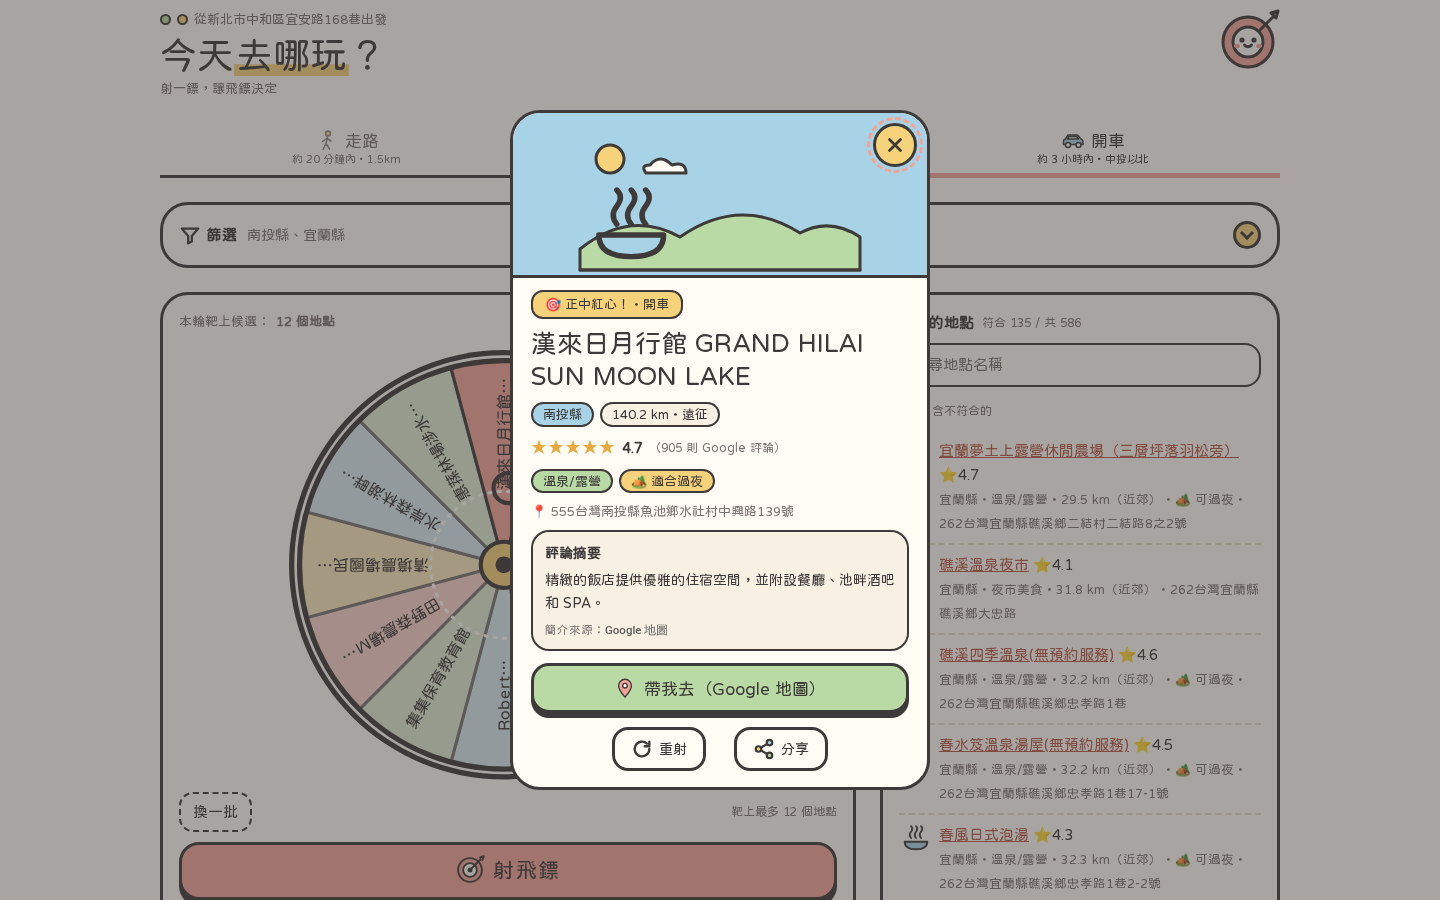
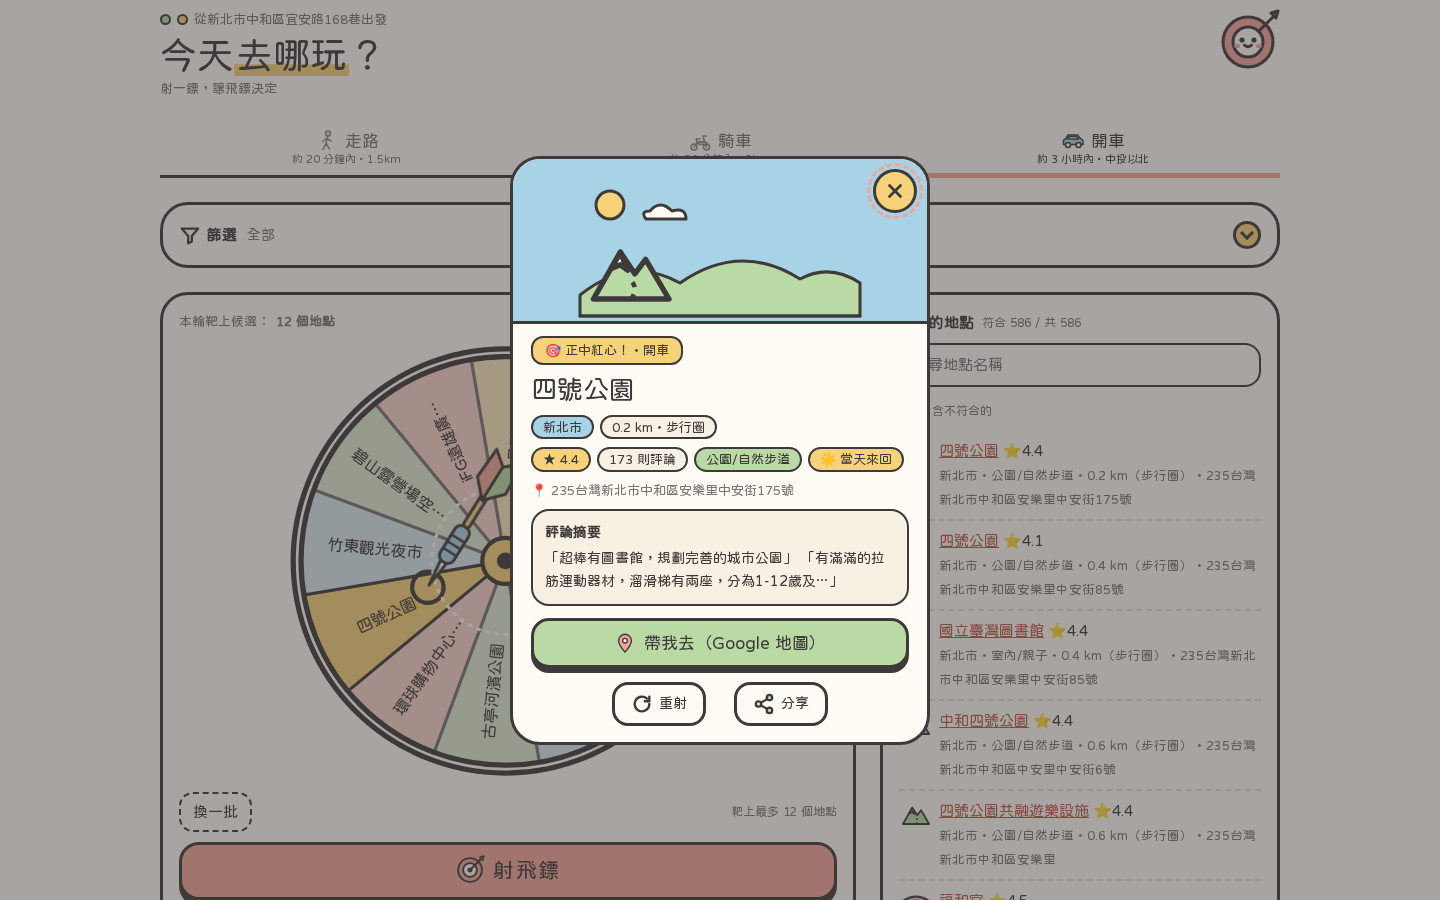
彈窗：評分/評論數改為標籤、評論摘要縮短、移除來源列

diff --git a/index.html b/index.html
@@ -126,6 +126,8 @@ h1 em{background:none;border:0;border-radius:0;padding:0 2px;transform:none;box-
 .ibtn.lab{border-radius:16px;grid-auto-flow:column;gap:6px;padding:0 16px;font-size:14px}
 #toast{position:fixed;left:50%;bottom:24px;transform:translate(-50%,20px);background:var(--ink);color:var(--paper);border-radius:14px;padding:8px 16px;font-size:14px;opacity:0;pointer-events:none;transition:.25s;z-index:20}
 #toast.on{opacity:1;transform:translate(-50%,0)}
+.tag-r{background:var(--yellow)}
+#mRv p{display:-webkit-box;-webkit-line-clamp:3;-webkit-box-orient:vertical;overflow:hidden;white-space:normal}
 </style></head><body>
 <div id="app">
 <header><div><span class="eyebrow"><i class="line-dot" style="background:#B9DAA5"></i><i class="line-dot" style="background:#F6D27A"></i>從新北市中和區宜安路168巷出發</span><h1>今天<em>去哪玩</em>？</h1><div class="sub">射一鏢，讓飛鏢決定</div></div>
@@ -168,7 +170,7 @@ h1 em{background:none;border:0;border-radius:0;padding:0 2px;transform:none;box-
  <div class="m-rate" id="mRate"></div>
  <div class="m-tags" id="mTags"></div>
  <div class="m-addr" id="mAddr"></div>
- <section class="m-rv" aria-labelledby="rvH"><h3 id="rvH">評論摘要</h3><div id="mRv"></div><div class="m-attr" id="mAttr"></div></section>
+ <section class="m-rv" aria-labelledby="rvH"><h3 id="rvH">評論摘要</h3><div id="mRv"></div></section>
  <a class="go" id="mGo" target="_blank" rel="noopener"><svg class="i" viewBox="0 0 48 48" aria-hidden="true"><path d="M24 44 C24 44 10 28 10 19 A14 14 0 0 1 38 19 C38 28 24 44 24 44 Z" fill="#F2A497" stroke="#3E3A39" stroke-width="3" stroke-linejoin="round"/><circle cx="24" cy="19" r="5" fill="#FFFCF6" stroke="#3E3A39" stroke-width="3"/></svg>帶我去（Google 地圖）</a>
  <div class="m-actions"><button type="button" class="ibtn lab" id="mOk" aria-label="重射"><svg viewBox="0 0 24 24" aria-hidden="true"><path d="M20 12a8 8 0 1 1-2.6-5.9M20 4v5h-5" fill="none" stroke="#3E3A39" stroke-width="2.6" stroke-linecap="round" stroke-linejoin="round"/></svg><span>重射</span></button><button type="button" class="ibtn lab" id="mShare" aria-label="分享"><svg viewBox="0 0 24 24" aria-hidden="true"><circle cx="18" cy="5" r="3" fill="#A8D3E6" stroke="#3E3A39" stroke-width="2.4"/><circle cx="6" cy="12" r="3" fill="#F6D27A" stroke="#3E3A39" stroke-width="2.4"/><circle cx="18" cy="19" r="3" fill="#B9DAA5" stroke="#3E3A39" stroke-width="2.4"/><path d="M8.6 10.6l6.8-4M8.6 13.4l6.8 4" stroke="#3E3A39" stroke-width="2.4"/></svg><span>分享</span></button></div>
 </div></div></div>
@@ -292,6 +294,7 @@ async function throwDart(){if(busy||!pool.length)return;busy=true;$("throw").dis
 $("throw").onclick=throwDart;$("bull").onclick=()=>{if(!busy)throwDart()};
 function resumeIdle(){D.style.opacity=0;B.freeze=false;B.spd=8;drawBoard()}
 const esc=t=>String(t??"").replace(/[&<>"']/g,c=>({"&":"&amp;","<":"&lt;",">":"&gt;",'"':"&quot;","'":"&#39;"})[c]);
+function shortSum(t){t=t.replace(/\s+/g," ").trim();const ss=t.match(/[^。！？!?]+[。！？!?]?/g)||[t];let o="";for(const x of ss){if(o&&(o+x).length>70)break;o+=x;if(o.length>=50)break}return o.length>72?o.slice(0,70)+"…":o}
 const stars=r=>{const f=Math.round(r);return "★".repeat(f)+"<i>"+"★".repeat(5-f)+"</i>"};
 let cur=null,lastFocus=null;
 function show(p){cur=p;$("mIll").innerHTML=bigScene(p);$("rIll").innerHTML=ic(ICON[placeIcon(p)],"");
@@ -299,15 +302,14 @@ function show(p){cur=p;$("mIll").innerHTML=bigScene(p);$("rIll").innerHTML=ic(IC
  $("rName").textContent=p.name;$("rHint").textContent=p.addr+(p.reviews?`（${p.reviews} 則評論）`:"");$("rChips").innerHTML=chips;
  $("mLabel").innerHTML="🎯 正中紅心！・"+MODES[S.mode].label.replace(/<svg.*<\/svg>/,"");$("mName").textContent=p.name;
  $("mCounty").textContent=p.county;$("mDist").textContent=`${p.km.toFixed(1)} km・${tier(p.km)}`;
- $("mRate").innerHTML=p.rating?`<span class="st" aria-hidden="true">${stars(p.rating)}</span><b>${p.rating.toFixed(1)}</b><span class="foot">（${(p.reviews||0).toLocaleString()} 則 Google 評論）</span>`:`<span class="foot">暫無評分</span>`;
- $("mTags").innerHTML=`<span class="tag tag-t">${esc(p.cat)}</span><span class="tag tag-n">${p.night?"🏕 適合過夜":"☀ 當天來回"}</span>`;
+ $("mRate").hidden=true;
+ $("mTags").innerHTML=(p.rating?`<span class="tag tag-r">★ ${p.rating.toFixed(1)}</span><span class="tag tag-d">${(p.reviews||0).toLocaleString()} 則評論</span>`:"")+`<span class="tag tag-t">${esc(p.cat)}</span><span class="tag tag-n">${p.night?"🏕 適合過夜":"☀ 當天來回"}</span>`;
  $("mAddr").innerHTML=`<span aria-hidden="true">📍</span><span>${esc(p.addr)}</span>`;
- const rv=p.rv,G='<span class="gbrand">Google 地圖</span>';let h="",at="";
- if(rv&&rv.type=="gemini"){h=`<p>${esc(rv.text)}</p>`;at=`${esc(rv.disclosure||"摘要由 Gemini 生成")}・資料來源：${G}${rv.uri?`・<a href="${esc(rv.uri)}" target="_blank" rel="noopener">查看所有評論</a>`:""}`}
- else if(rv&&rv.type=="editorial"){h=`<p>${esc(rv.text)}</p>`;at=`簡介來源：${G}`}
- else if(rv&&rv.type=="reviews"){h=rv.quotes.map(q=>`<blockquote>「${esc(q.q)}」<cite>— ${q.au?`<a href="${esc(q.au)}" target="_blank" rel="noopener">${esc(q.a)}</a>`:esc(q.a)}${q.r?`・${"★".repeat(q.r)}`:""}${q.t?`・${esc(q.t)}`:""}</cite></blockquote>`).join("");at=`評論節錄自 ${G}`}
- else{h=`<p class="foot">暫無評論摘要</p>`}
- $("mRv").innerHTML=h;$("mAttr").innerHTML=at;$("mGo").href=p.url;
+ const rv=p.rv;let h;
+ if(rv&&(rv.type=="gemini"||rv.type=="editorial"))h=`<p>${esc(shortSum(rv.text))}</p>`;
+ else if(rv&&rv.type=="reviews")h=`<p>${esc(rv.quotes.slice(0,2).map(q=>"「"+q.q.replace(/[。！!～~…\s]+$/,"").slice(0,26)+(q.q.length>26?"…":"")+"」").join(" "))}</p>`;
+ else h=`<p class="foot">暫無評論摘要</p>`;
+ $("mRv").innerHTML=h;$("mGo").href=p.url;
  lastFocus=document.activeElement;$("reveal").hidden=false;$("mCard").querySelector(".m-body").scrollTop=0;$("mX").focus()}
 function closeM(re){$("reveal").hidden=true;resumeIdle();if(re)setTimeout(throwDart,250);else if(lastFocus)lastFocus.focus()}
 function toast(t){const e=$("toast");e.textContent=t;e.classList.add("on");clearTimeout(e._t);e._t=setTimeout(()=>e.classList.remove("on"),2200)}
